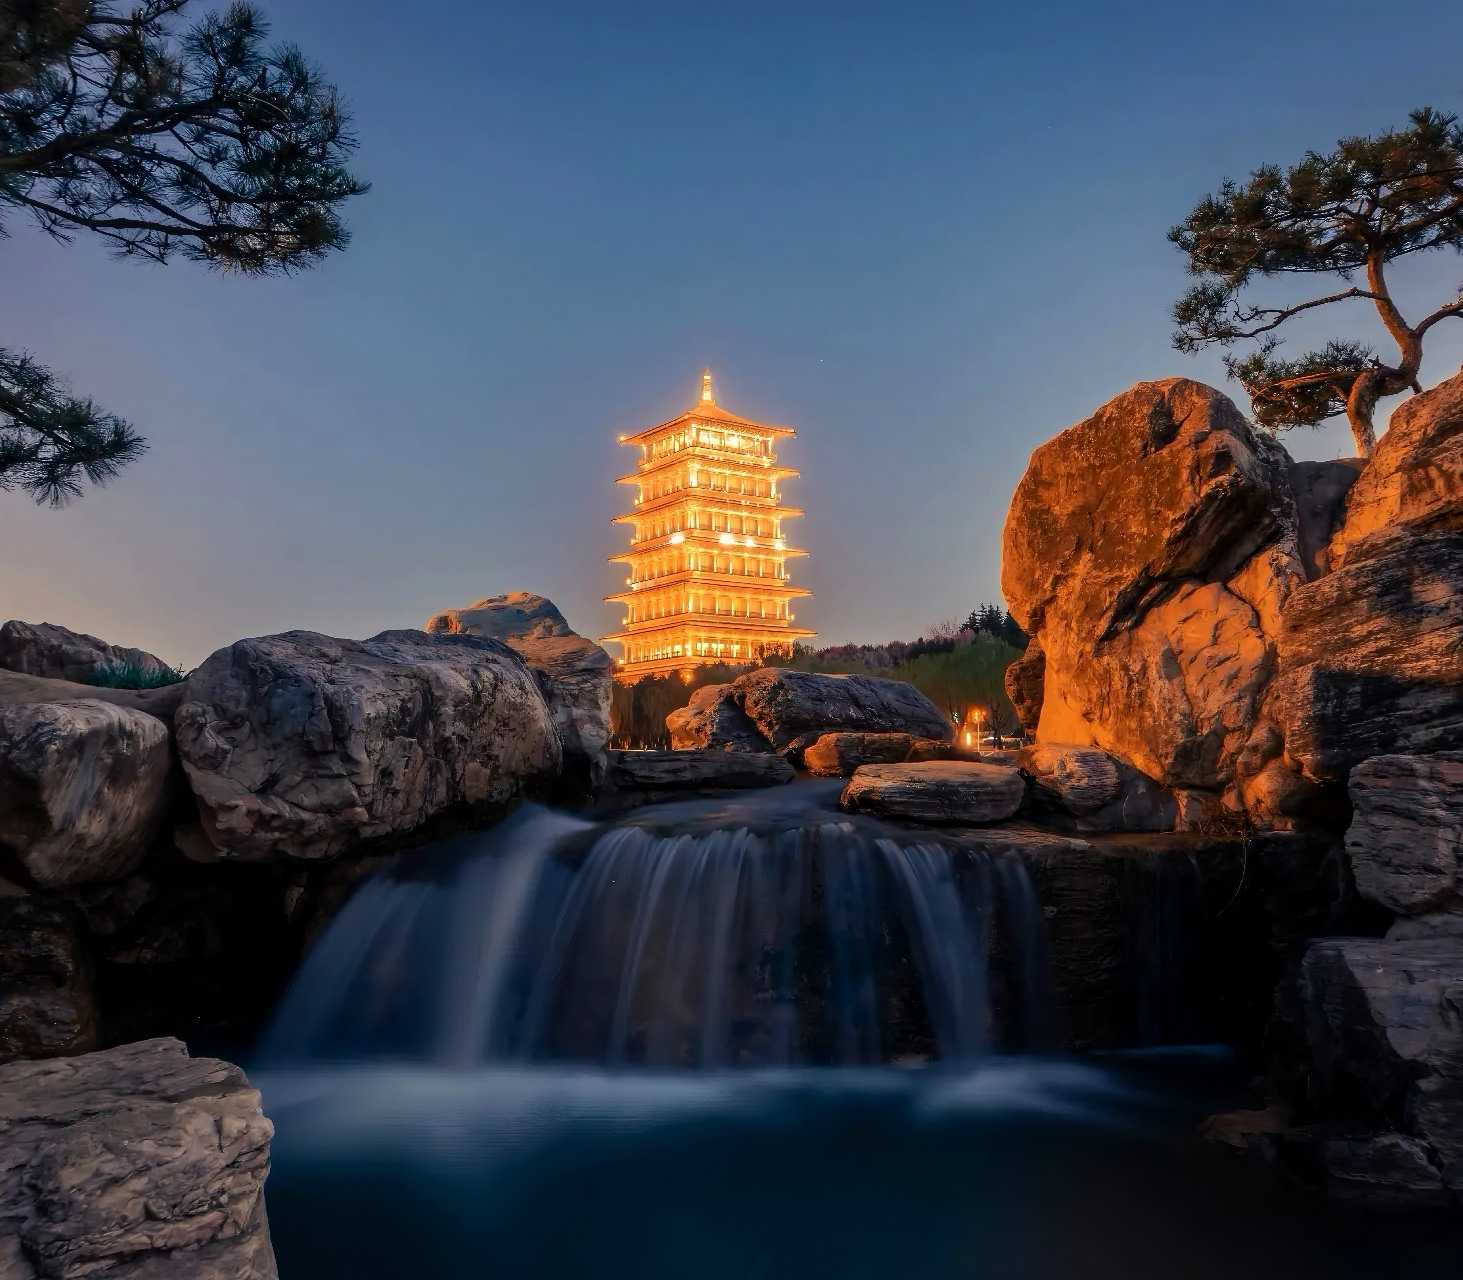
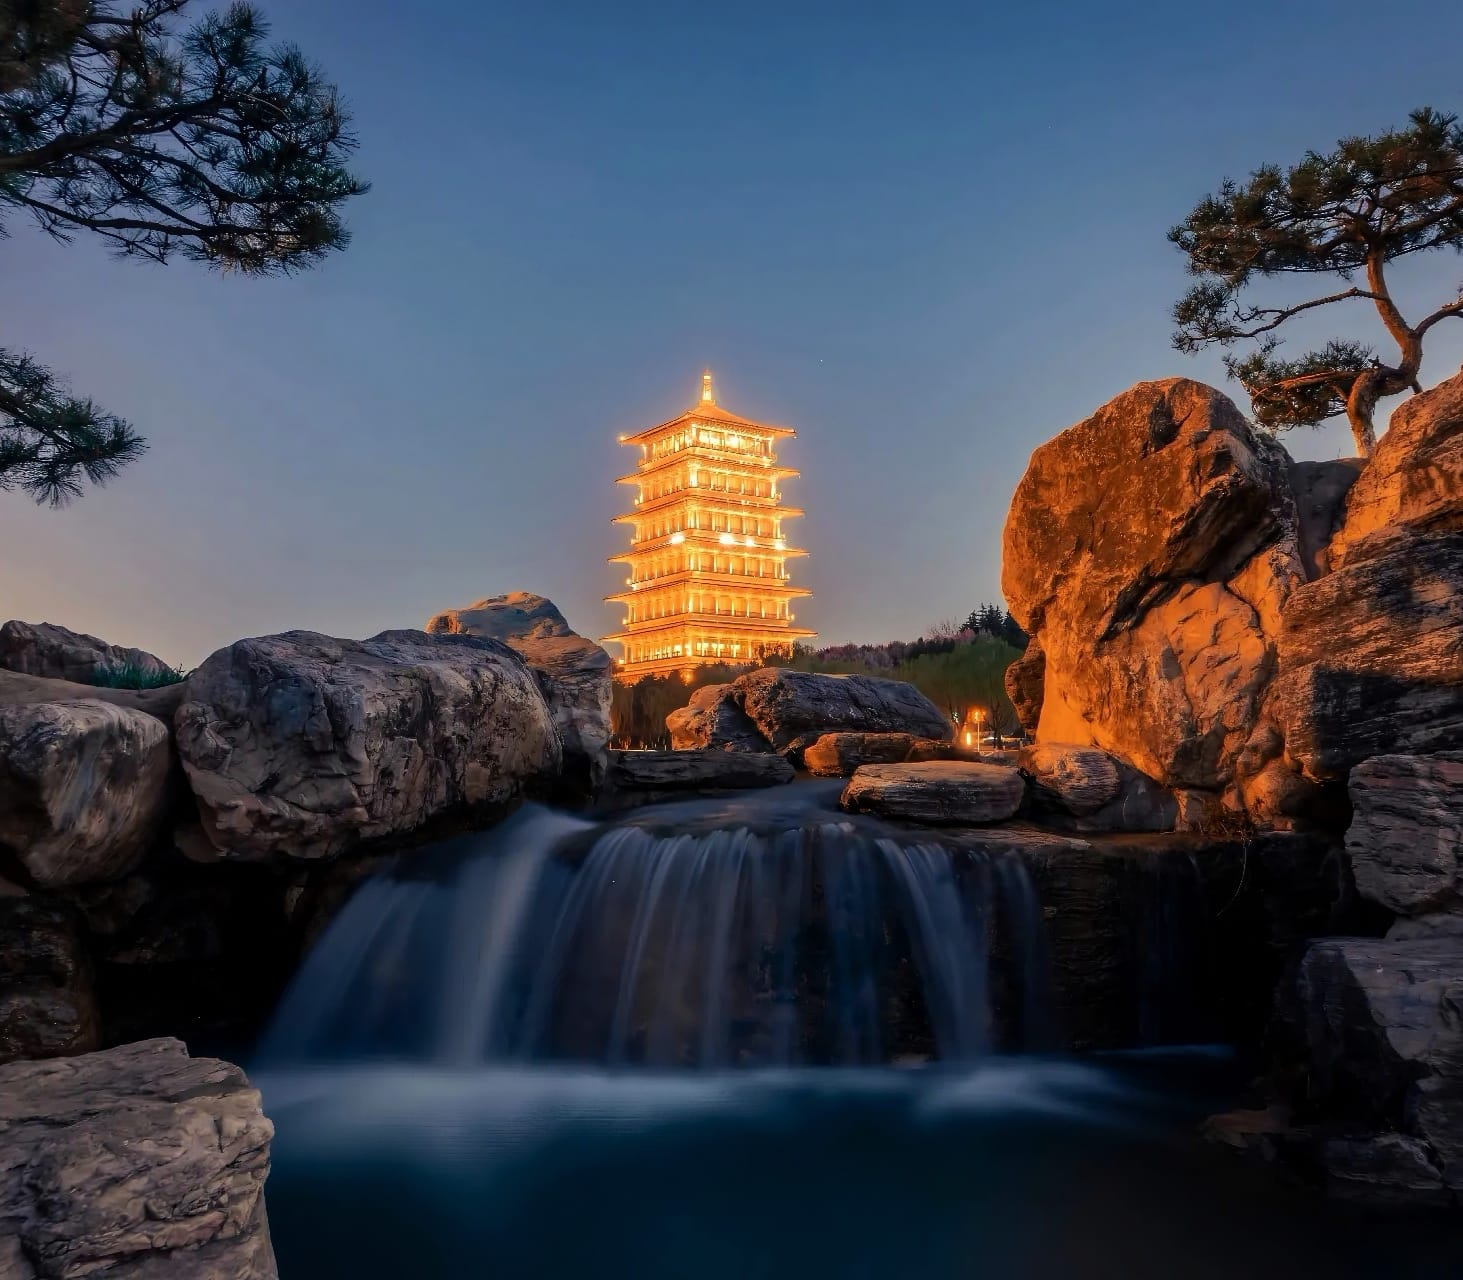
Optimize: compress images (81MB→2.4MB), add WebP, blur-up loading

diff --git a/index.html b/index.html
@@ -514,7 +514,10 @@ footer .heart { color: var(--coral); animation: pulse 1.2s infinite; display: in
     <span class="section-tag">关于我</span>
     <h2 class="section-title">镜头背后的故事</h2>
     <div class="about-grid">
-      <img src="images/portrait.jpg" alt="万先生" class="about-photo reveal" loading="lazy">
+      <picture>
+        <source srcset="images/portrait.webp" type="image/webp">
+        <img src="images/portrait.jpg" alt="万先生" class="about-photo reveal" loading="lazy">
+      </picture>
       <div class="about-text reveal">
         <h3>嗨，我是万先生</h3>
         <p>
@@ -659,19 +662,19 @@ navLinks.querySelectorAll('a').forEach(link => {
 
 /* ===== Gallery Generation ===== */
 const works = [
-  { src: 'images/work-1.jpeg', title: '作品 01' },
-  { src: 'images/work-2.jpg', title: '作品 02' },
-  { src: 'images/work-3.jpg', title: '作品 03' },
-  { src: 'images/work-4.jpg', title: '作品 04' },
-  { src: 'images/work-5.jpg', title: '作品 05' },
-  { src: 'images/work-6.jpg', title: '作品 06' },
-  { src: 'images/work-7.jpg', title: '作品 07' },
-  { src: 'images/work-8.jpg', title: '作品 08' },
-  { src: 'images/work-9.jpeg', title: '作品 09' },
-  { src: 'images/work-10.jpg', title: '作品 10' },
-  { src: 'images/work-11.jpg', title: '作品 11' },
-  { src: 'images/work-12.jpg', title: '作品 12' },
-  { src: 'images/work-13.png', title: '作品 13' },
+  { jpg: 'images/work-1.jpg', webp: 'images/work-1.webp', title: '作品 01' },
+  { jpg: 'images/work-2.jpg', webp: 'images/work-2.webp', title: '作品 02' },
+  { jpg: 'images/work-3.jpg', webp: 'images/work-3.webp', title: '作品 03' },
+  { jpg: 'images/work-4.jpg', webp: 'images/work-4.webp', title: '作品 04' },
+  { jpg: 'images/work-5.jpg', webp: 'images/work-5.webp', title: '作品 05' },
+  { jpg: 'images/work-6.jpg', webp: 'images/work-6.webp', title: '作品 06' },
+  { jpg: 'images/work-7.jpg', webp: 'images/work-7.webp', title: '作品 07' },
+  { jpg: 'images/work-8.jpg', webp: 'images/work-8.webp', title: '作品 08' },
+  { jpg: 'images/work-9.jpg', webp: 'images/work-9.webp', title: '作品 09' },
+  { jpg: 'images/work-10.jpg', webp: 'images/work-10.webp', title: '作品 10' },
+  { jpg: 'images/work-11.jpg', webp: 'images/work-11.webp', title: '作品 11' },
+  { jpg: 'images/work-12.jpg', webp: 'images/work-12.webp', title: '作品 12' },
+  { jpg: 'images/work-13.jpg', webp: 'images/work-13.webp', title: '作品 13' },
 ];
 
 const galleryGrid = document.getElementById('galleryGrid');
@@ -679,7 +682,12 @@ works.forEach((work, i) => {
   const item = document.createElement('div');
   item.className = 'gallery-item reveal';
   item.innerHTML = `
-    <img src="${work.src}" alt="${work.title}" loading="lazy">
+    <picture>
+      <source srcset="${work.webp}" type="image/webp">
+      <img src="${work.jpg}" alt="${work.title}" loading="lazy"
+           style="filter:blur(20px);transition:filter 0.5s ease;"
+           onload="this.style.filter='blur(0)'">
+    </picture>
     <div class="gallery-overlay"><span>${work.title}</span></div>
   `;
   item.addEventListener('click', () => openLightbox(i));
@@ -694,7 +702,8 @@ let currentIdx = 0;
 
 function openLightbox(idx) {
   currentIdx = idx;
-  lightboxImg.src = works[idx].src;
+  lightboxImg.src = works[idx].jpg;
+  lightboxImg.srcset = works[idx].webp;
   lightboxCounter.textContent = `${idx + 1} / ${works.length}`;
   lightbox.classList.add('active');
   document.body.style.overflow = 'hidden';
@@ -707,13 +716,13 @@ function closeLightbox() {
 
 function prevImage() {
   currentIdx = (currentIdx - 1 + works.length) % works.length;
-  lightboxImg.src = works[currentIdx].src;
+  lightboxImg.src = works[currentIdx].jpg;
   lightboxCounter.textContent = `${currentIdx + 1} / ${works.length}`;
 }
 
 function nextImage() {
   currentIdx = (currentIdx + 1) % works.length;
-  lightboxImg.src = works[currentIdx].src;
+  lightboxImg.src = works[currentIdx].jpg;
   lightboxCounter.textContent = `${currentIdx + 1} / ${works.length}`;
 }
 
